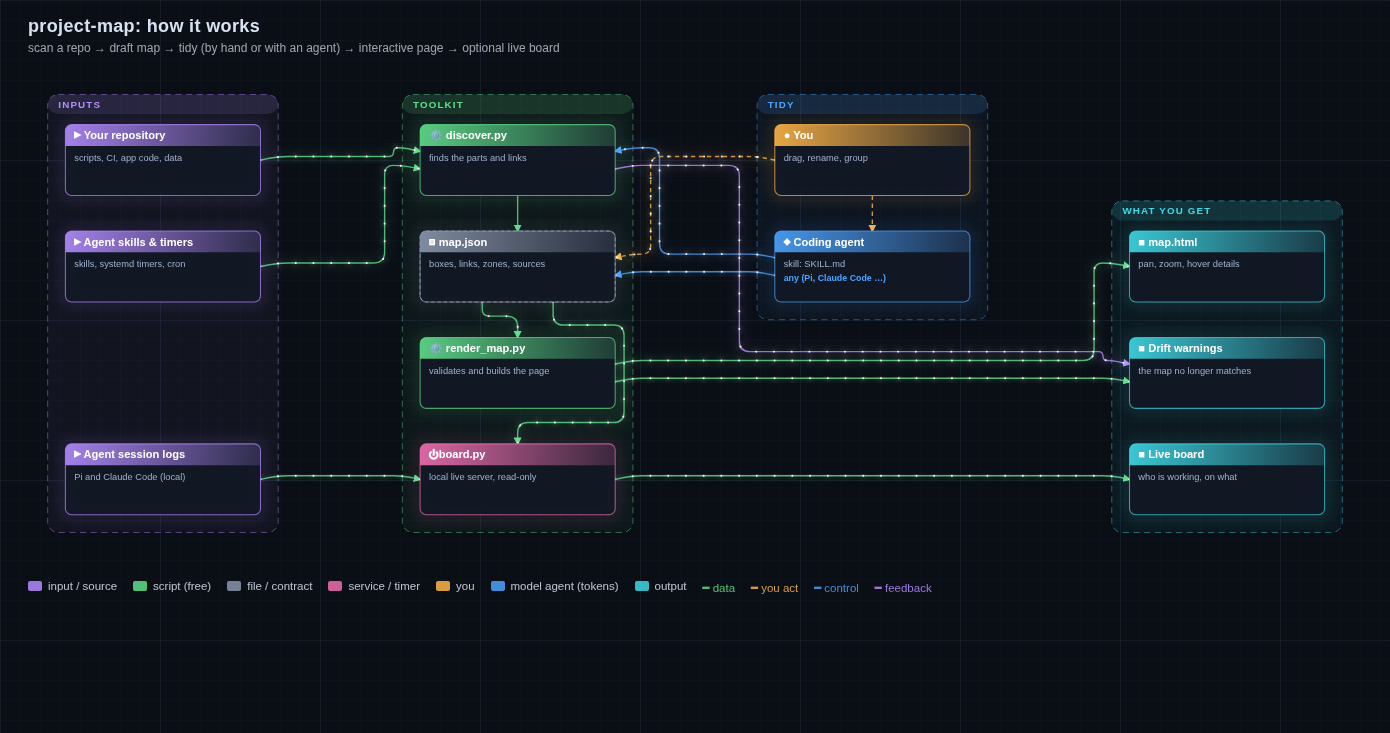
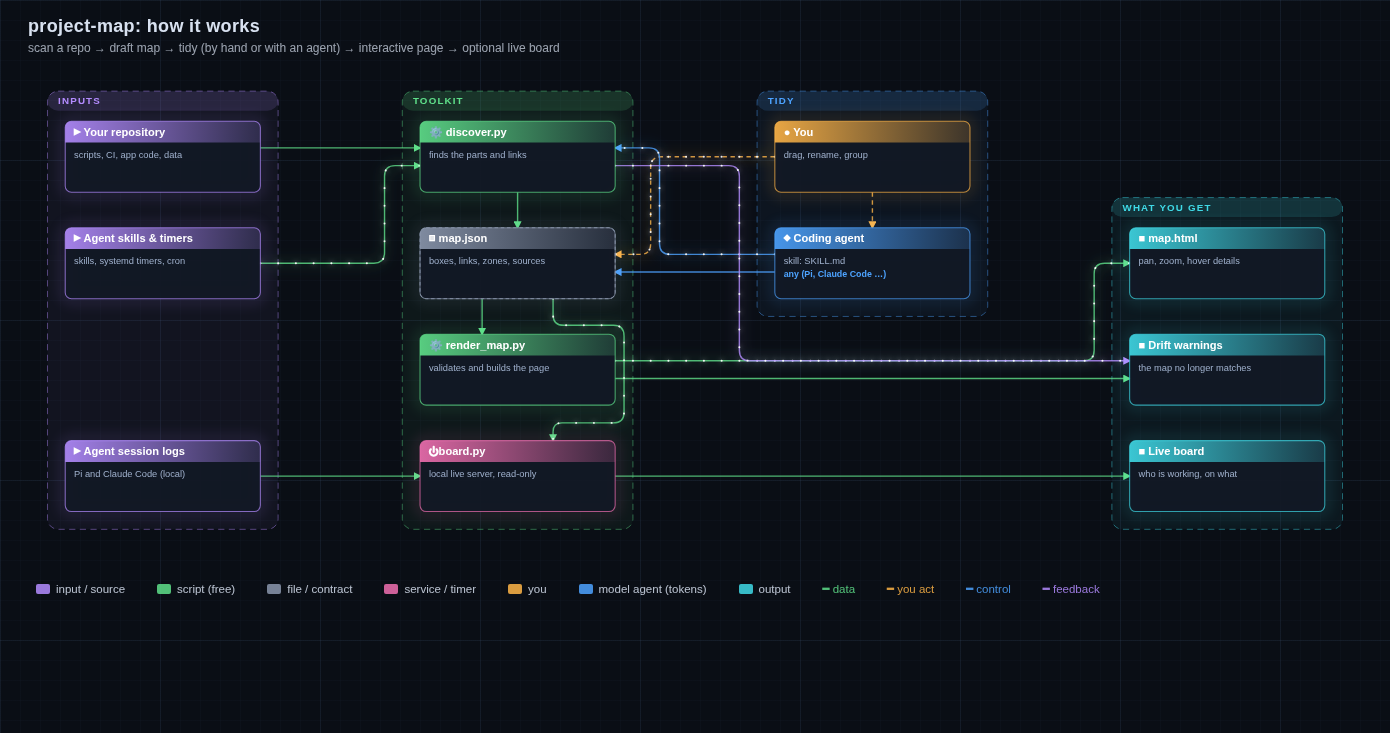
Straighter wires: boxes snapped to the routing grid (no slanted ends), facing ports aligned, short kinks removed, bends cost more

diff --git a/template.html b/template.html
@@ -164,7 +164,7 @@ function load(M) {
   { // shift everything so the drawing starts at the margin
     const top = !free && M.columns ? 30 : 0;
     const mx = Math.min(...nodes.map(n => n.px), ...groups.map(g => g.x)), my = Math.min(...nodes.map(n => n.py), ...groups.map(g => g.y));
-    const dx = PAD - mx, dy = PAD + top - my;
+    const dx = Math.round((PAD - mx) / G) * G, dy = Math.round((PAD + top - my) / G) * G;   // keep boxes on the routing grid: no slanted wire ends
     nodes.forEach(n => { n.px += dx; n.py += dy; }); groups.forEach(g => { g.x += dx; g.x2 += dx; g.y += dy; g.y2 += dy; });
   }
   nodes.forEach(n => n.gmask = groups.filter(g => g.nodes.includes(n.id)).reduce((m, g) => m | (1 << g.i), 0));
@@ -203,6 +203,22 @@ function routeAll() {
       e["p" + end] = [x, y]; e["s" + end + "pt"] = [x + DX[s] * 2 * G, y + DY[s] * 2 * G];
     });
   }
+  // facing sides: put both ends on one line when the boxes overlap, so the wire can run straight
+  const snap = v => Math.round(v / G) * G;
+  for (const e of edges) {
+    if ((e.sa + 2) % 4 !== e.sb) continue;
+    const a = byId[e.from], b = byId[e.to], horiz = e.sa % 2 === 0, k = horiz ? 1 : 0;
+    const range = n => horiz ? [n.py + 12, n.py + H - 12] : [n.px + 20, n.px + W - 20];
+    const one = (n, sd) => slots[n.id + sd].length === 1;
+    const [ra, rb] = [range(a), range(b)], lo = Math.max(ra[0], rb[0]), hi = Math.min(ra[1], rb[1]);
+    if (lo > hi) continue;
+    const fix = (end, v, sd) => { e["p" + end][k] = v; e["s" + end + "pt"] = [e["p" + end][0] + DX[sd] * 2 * G, e["p" + end][1] + DY[sd] * 2 * G]; };
+    const pa = e.pa[k], pb = e.pb[k];
+    if (pa === pb) continue;
+    if (one(b, e.sb) && pa >= rb[0] && pa <= rb[1]) fix("b", pa, e.sb);
+    else if (one(a, e.sa) && pb >= ra[0] && pb <= ra[1]) fix("a", pb, e.sa);
+    else if (one(a, e.sa) && one(b, e.sb)) { const v = snap((lo + hi) / 2); fix("a", v, e.sa); fix("b", v, e.sb); }
+  }
   const dist = new Float64Array(N * 4), prev = new Int32Array(N * 4);
   function astar(e) {
     const a = byId[e.from], b = byId[e.to], allow = a.gmask | b.gmask;
@@ -223,7 +239,7 @@ function routeAll() {
         if (i < 0 || j < 0 || i >= C || j >= R) continue;
         const q = id(i, j); if (blocked[q] && q !== goal) continue;
         const h = nd % 2 === 0;
-        let c = 1 + (nd !== d ? 6 : 0) + (h ? useH[q] * 4 + useV[q] * 1.5 : useV[q] * 4 + useH[q] * 1.5) + ((gm[q] & ~allow) ? 2 : 0) + (edgeZ[q] && nd === d ? 2.5 : 0);
+        let c = 1 + (nd !== d ? 12 : 0) + (h ? useH[q] * 4 + useV[q] * 1.5 : useV[q] * 4 + useH[q] * 1.5) + ((gm[q] & ~allow) ? 2 : 0) + (edgeZ[q] && nd === d ? 2.5 : 0);
         if (q === goal && nd !== inward) c += 6;
         const ns = q * 4 + nd;
         if (g + c < dist[ns]) { dist[ns] = g + c; prev[ns] = s; push(g + c + Math.abs(i - ti) + Math.abs(j - tj), ns); }
@@ -235,12 +251,50 @@ function routeAll() {
     for (let k = 1; k < pts.length; k++) { const q = id(pts[k][0] / G, pts[k][1] / G); if (pts[k][1] === pts[k - 1][1]) useH[q] = 1; else useV[q] = 1; }
     return [e.pa, ...pts, e.pb];
   }
+  function free(p, q, e) {                                // lattice points strictly between p and q are not inside a box
+    const a = byId[e.from], b = byId[e.to], own = (x, y) => [a, b].some(n => x >= n.px - 10 && x <= n.px + W + 10 && y >= n.py - 10 && y <= n.py + H + 10);
+    const dx = Math.sign(q[0] - p[0]) * G, dy = Math.sign(q[1] - p[1]) * G;
+    for (let x = p[0] + dx, y = p[1] + dy; x !== q[0] || y !== q[1]; x += dx, y += dy) {
+      const i = x / G, j = y / G;
+      if (i < 0 || j < 0 || i >= C || j >= R) return false;
+      if (blocked[id(i, j)] && !own(x, y)) return false;
+    }
+    return true;
+  }
+  function tidyPts(P) {                                   // drop zero-length and collinear points
+    const out = [P[0]];
+    for (let k = 1; k < P.length; k++) { const q = P[k], o = out[out.length - 1]; if (q[0] === o[0] && q[1] === o[1]) continue;
+      if (out.length >= 2) { const z = out[out.length - 2]; if ((z[0] === o[0] && o[0] === q[0]) || (z[1] === o[1] && o[1] === q[1])) { out[out.length - 1] = q; continue; } }
+      out.push(q); }
+    return out;
+  }
+  function unjog(P, e) {                                  // a short middle segment between two parallel runs = a kink: slide one run over
+    P = tidyPts(P);
+    for (let guard = 0; guard < 20; guard++) {
+      let done = true;
+      for (let k = 1; k + 2 < P.length; k++) {
+        const b = P[k], c = P[k + 1], len = Math.abs(c[0] - b[0]) + Math.abs(c[1] - b[1]);
+        if (len > 30) continue;
+        const d = [c[0] - b[0], c[1] - b[1]];
+        if (k - 1 >= 1) {                                  // move the run before the kink onto the line after it (port stays)
+          const a2 = [P[k - 1][0] + d[0], P[k - 1][1] + d[1]];
+          if (free(P[k - 2], a2, e) && free(a2, P[k + 2], e)) { P = tidyPts([...P.slice(0, k - 1), a2, ...P.slice(k + 2)]); done = false; break; }
+        }
+        if (k + 3 <= P.length - 1) {                       // or the run after it onto the line before it
+          const d2 = [P[k + 2][0] - d[0], P[k + 2][1] - d[1]];
+          if (free(P[k - 1], d2, e) && free(d2, P[k + 3], e)) { P = tidyPts([...P.slice(0, k), d2, ...P.slice(k + 3)]); done = false; break; }
+        }
+      }
+      if (done) break;
+    }
+    return P;
+  }
   const order = [...edges].sort((p, q) => (Math.abs(p.sapt[0] - p.sbpt[0]) + Math.abs(p.sapt[1] - p.sbpt[1])) - (Math.abs(q.sapt[0] - q.sbpt[0]) + Math.abs(q.sapt[1] - q.sbpt[1])));
   for (const e of order) {
     const raw = astar(e), pts = [raw[0]];
     for (let k = 1; k < raw.length - 1; k++) { const [a, b, c] = [pts[pts.length - 1], raw[k], raw[k + 1]];
       if (!((a[0] === b[0] && b[0] === c[0]) || (a[1] === b[1] && b[1] === c[1]))) pts.push(b); }
-    pts.push(raw[raw.length - 1]); e.pts = pts;
+    pts.push(raw[raw.length - 1]); e.pts = unjog(pts, e);
   }
 }
 load(MAP);
